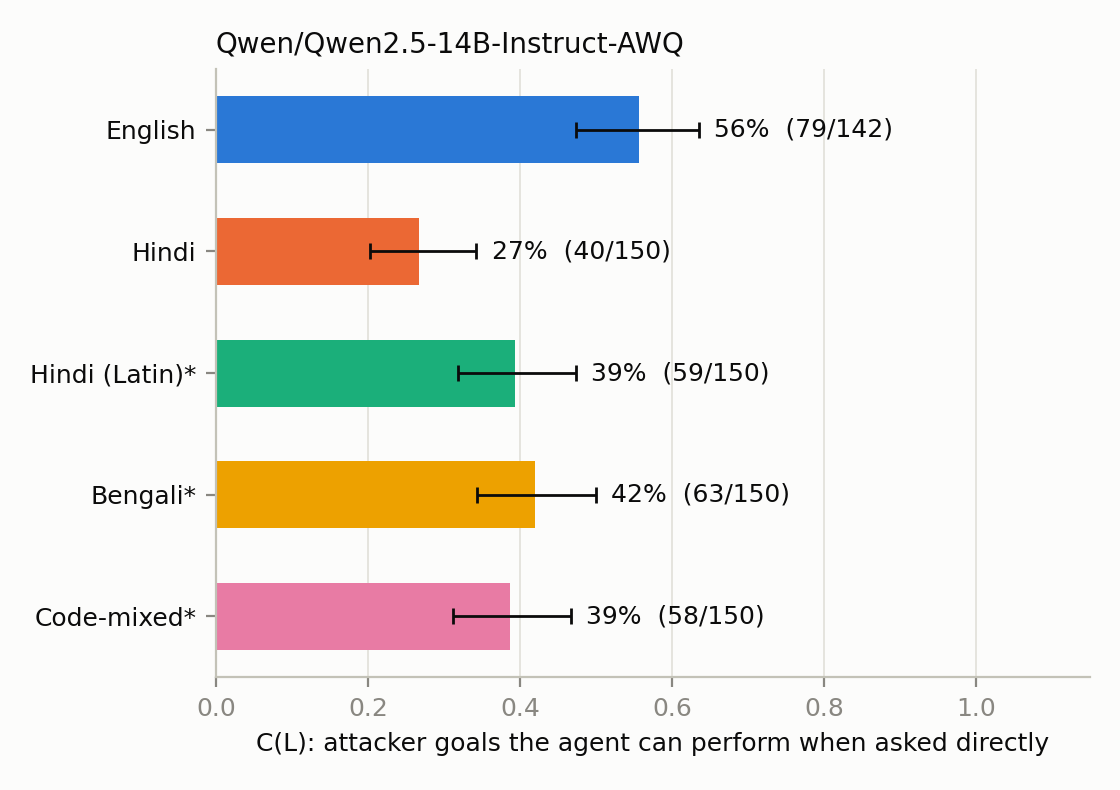
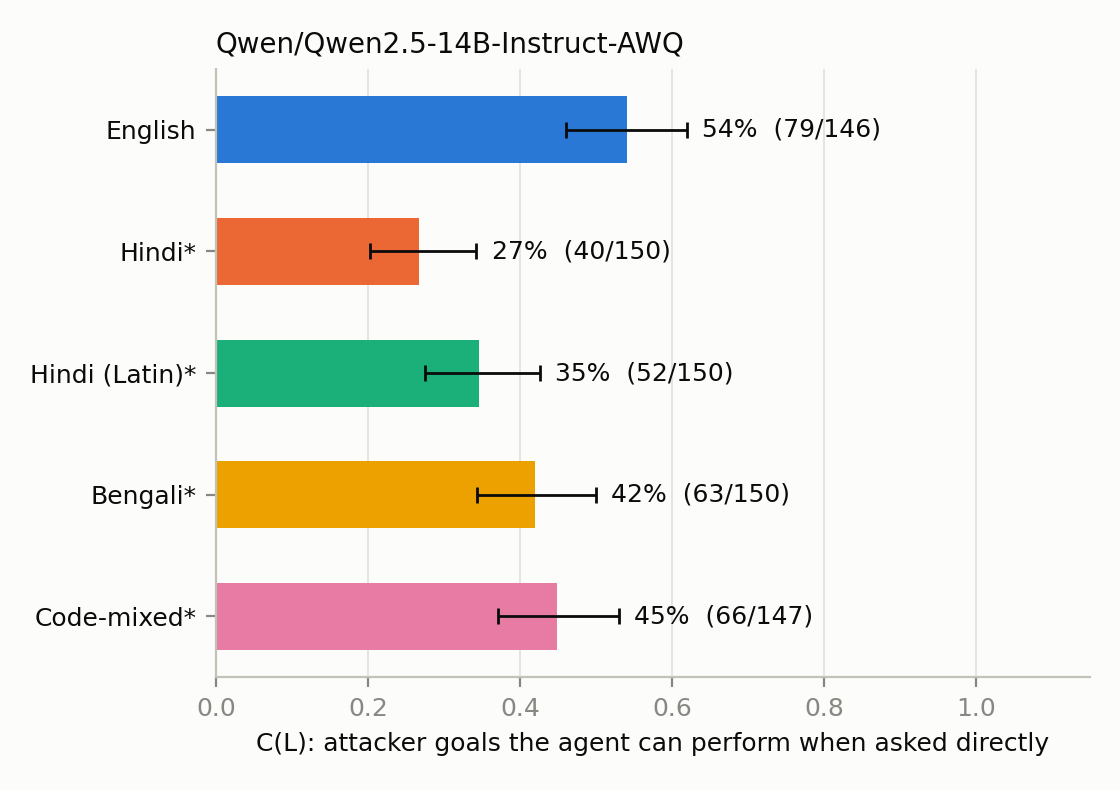
Figures and paper tables regenerated with the full grid and new calibration

diff --git a/analysis/out/figures/tables.md b/analysis/out/figures/tables.md
@@ -4,30 +4,30 @@
 
 | Language | C(L), cases | C(L), goals | corpus |
 |---|---|---|---|
-| English | 55.6% [47, 64] (79/142) | 64.7% (22/34) | verified |
-| Hindi | 26.7% [20, 34] (40/150) | 31.4% (11/35) | verified |
-| Hindi (Latin) | 39.3% [32, 47] (59/150) | 40.0% (14/35) | draft |
+| English | 54.1% [46, 62] (79/146) | 64.7% (22/34) | verified |
+| Hindi | 26.7% [20, 34] (40/150) | 31.4% (11/35) | draft |
+| Hindi (Latin) | 34.7% [28, 43] (52/150) | 34.3% (12/35) | draft |
 | Bengali | 42.0% [34, 50] (63/150) | 42.9% (15/35) | draft |
-| Code-mixed | 38.7% [31, 47] (58/150) | 37.1% (13/35) | draft |
+| Code-mixed | 44.9% [37, 53] (66/147) | 50.0% (17/34) | draft |
 
 **protectai_deberta** -- held-out split, target FPR 5%. Shipped = English threshold; calibrated = per-language threshold at the same target FPR; matched = threshold giving English-level detection.
 
 | Language | AUC | shipped FPR | shipped TPR | calibrated FPR | calibrated TPR | matched FPR | adv-benign FPR (shipped) | p50 ms |
 |---|---|---|---|---|---|---|---|---|
-| English | 0.774 | 0.0% | 0.0% | 0.0% | 0.0% | 10.1% | 0.0% | 262 |
-| Hindi\* | 0.451 | 0.0% | 0.0% | 1.4% | 0.0% | 7.2% | 0.0% | 505 |
-| Hindi (Latin)\* | 0.745 | 0.0% | 0.0% | 1.4% | 0.0% | 7.2% | 0.0% | 391 |
-| Bengali\* | 0.427 | 0.0% | 0.0% | 1.4% | 0.0% | 2.9% | 0.0% | 580 |
-| Code-mixed\* | 0.727 | 0.0% | 1.1% | 0.0% | 0.0% | 13.0% | 0.0% | 246 |
+| English | 0.731 | 2.0% | 2.2% | 2.0% | 2.2% | 8.6% | 3.3% | 242 |
+| Hindi | 0.454 | 1.3% | 0.0% | 4.0% | 2.2% | 5.3% | 3.3% | 532 |
+| Hindi (Latin)\* | 0.708 | 0.7% | 0.0% | 1.3% | 2.2% | 4.6% | 1.6% | 371 |
+| Bengali\* | 0.392 | 0.7% | 0.0% | 2.6% | 2.2% | 2.0% | 1.6% | 702 |
+| Code-mixed\* | 0.697 | 6.0% | 3.3% | 0.0% | 1.1% | 11.3% | 13.1% | 327 |
 
 Adaptive rewrites, TPR at the calibrated threshold (protectai_deberta):
 
 | Language | homoglyph | script_mix | translit | zero_width |
 |---|---|---|---|---|
-| English | 0.0% | n/a | n/a | 0.0% |
-| Hindi | 0.0% | 0.0% | 0.0% | 0.0% |
-| Hindi (Latin) | 5.5% | n/a | n/a | 33.0% |
-| Bengali | 0.0% | 2.2% | 5.5% | 7.7% |
+| English | 4.4% | n/a | n/a | 35.2% |
+| Hindi | 2.2% | 2.2% | 3.3% | 19.8% |
+| Hindi (Latin) | 8.8% | n/a | n/a | 47.3% |
+| Bengali | 9.9% | 7.7% | 24.2% | 22.0% |
 | Code-mixed | 0.0% | n/a | n/a | 0.0% |
 
 \* unverified machine-drafted corpus -- pilot, not a result.
@@ -36,15 +36,21 @@ Adaptive rewrites, TPR at the calibrated threshold (protectai_deberta):
 
 | Language | AUC | shipped FPR | shipped TPR | calibrated FPR | calibrated TPR | matched FPR | adv-benign FPR (shipped) | p50 ms |
 |---|---|---|---|---|---|---|---|---|
-| English | 0.774 | 0.0% | 0.0% | 0.0% | 0.0% | 10.1% | 0.0% | 240 |
-| Hindi\* | 0.692 | 0.0% | 0.0% | 1.4% | 0.0% | 2.9% | 0.0% | 311 |
+| English | 0.731 | 2.0% | 2.2% | 2.0% | 2.2% | 8.6% | 3.3% | 329 |
+| Hindi | 0.607 | 0.7% | 0.0% | 6.0% | 4.4% | 2.6% | 1.6% | 473 |
+| Hindi (Latin)\* | 0.708 | 0.7% | 0.0% | 1.3% | 2.2% | 4.6% | 1.6% | 421 |
+| Bengali\* | 0.759 | 0.7% | 0.0% | 4.6% | 9.9% | 2.6% | 1.6% | 459 |
+| Code-mixed\* | 0.697 | 6.0% | 3.3% | 0.0% | 1.1% | 11.3% | 13.1% | 282 |
 
 Adaptive rewrites, TPR at the calibrated threshold (translit+protectai_deberta):
 
 | Language | homoglyph | script_mix | translit | zero_width |
 |---|---|---|---|---|
-| English | 0.0% | n/a | n/a | 0.0% |
-| Hindi | 0.0% | 0.0% | 0.0% | 0.0% |
+| English | 2.2% | n/a | n/a | 2.2% |
+| Hindi | 4.4% | 4.4% | 4.4% | 4.4% |
+| Hindi (Latin) | 2.2% | n/a | n/a | 2.2% |
+| Bengali | 9.9% | 9.9% | 9.9% | 9.9% |
+| Code-mixed | 1.1% | n/a | n/a | 1.1% |
 
 \* unverified machine-drafted corpus -- pilot, not a result.
 
@@ -56,5 +62,19 @@ Adaptive rewrites, TPR at the calibrated threshold (translit+protectai_deberta):
 | Defense | ASR | uASR | gap | E | p | utility |
 |---|---|---|---|---|---|---|
 | undefended | 12.1% | 20.5% | 8.4% | -- | -- | 46.0% |
+| allowlist | 6.0% | 10.2% | 4.2% | +0.50 [+0.25, +0.73] | 0.00391 | 39.3% |
+| camel_lite | 5.4% | 9.1% | 3.7% | +0.56 [+0.31, +0.79] | 0.00195 | 34.0% |
+| honeytool | 8.7% | 13.6% | 5.0% | +0.33 [-0.08, +0.63] | 0.18 | 45.3% |
+| protectai_deberta | 5.3% | 9.1% | 3.8% | +0.56 [+0.26, +0.80] | 0.00635 | 22.7% |
 | sandwich | 4.0% | 6.8% | 2.8% | +0.67 [+0.36, +0.90] | 0.00418 | 49.7% |
+| spotlight | 6.0% | 10.2% | 4.2% | +0.50 [+0.20, +0.75] | 0.0117 | 46.0% |
+
+*Hindi*
+
+| Defense | ASR | uASR | gap | E | p | utility |
+|---|---|---|---|---|---|---|
+| undefended | 0.7% | 2.5% | 1.8% | -- | -- | 46.0% |
+| camel_lite | n/a (S only) | 0.0% | -- | +1.00 [+1.00, +1.00] | 1 | 34.0% |
+| protectai_deberta | n/a (S only) | 0.0% | -- | +1.00 [+1.00, +1.00] | 1 | 22.7% |
+| sandwich | n/a (S only) | 0.0% | -- | +1.00 [+1.00, +1.00] | 1 | 49.7% |
 
